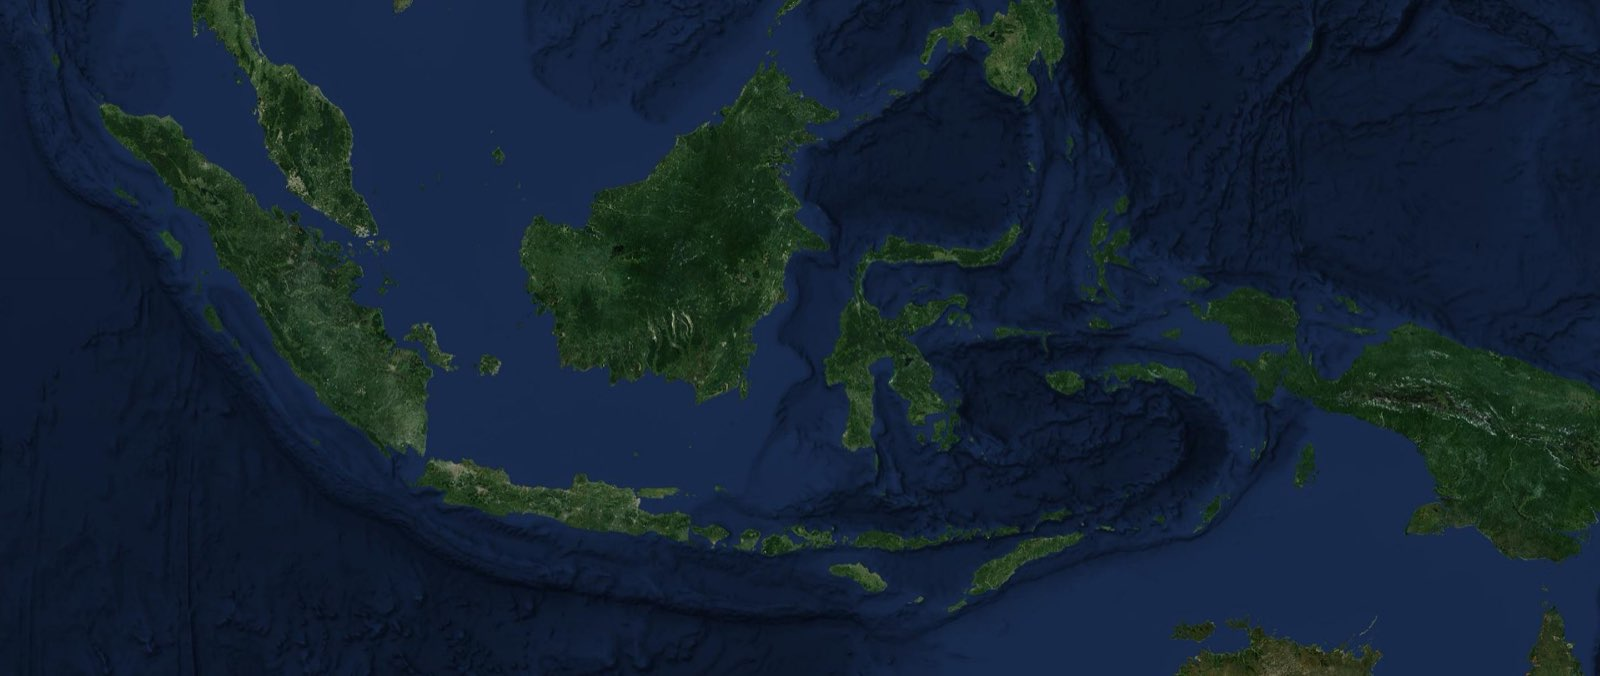
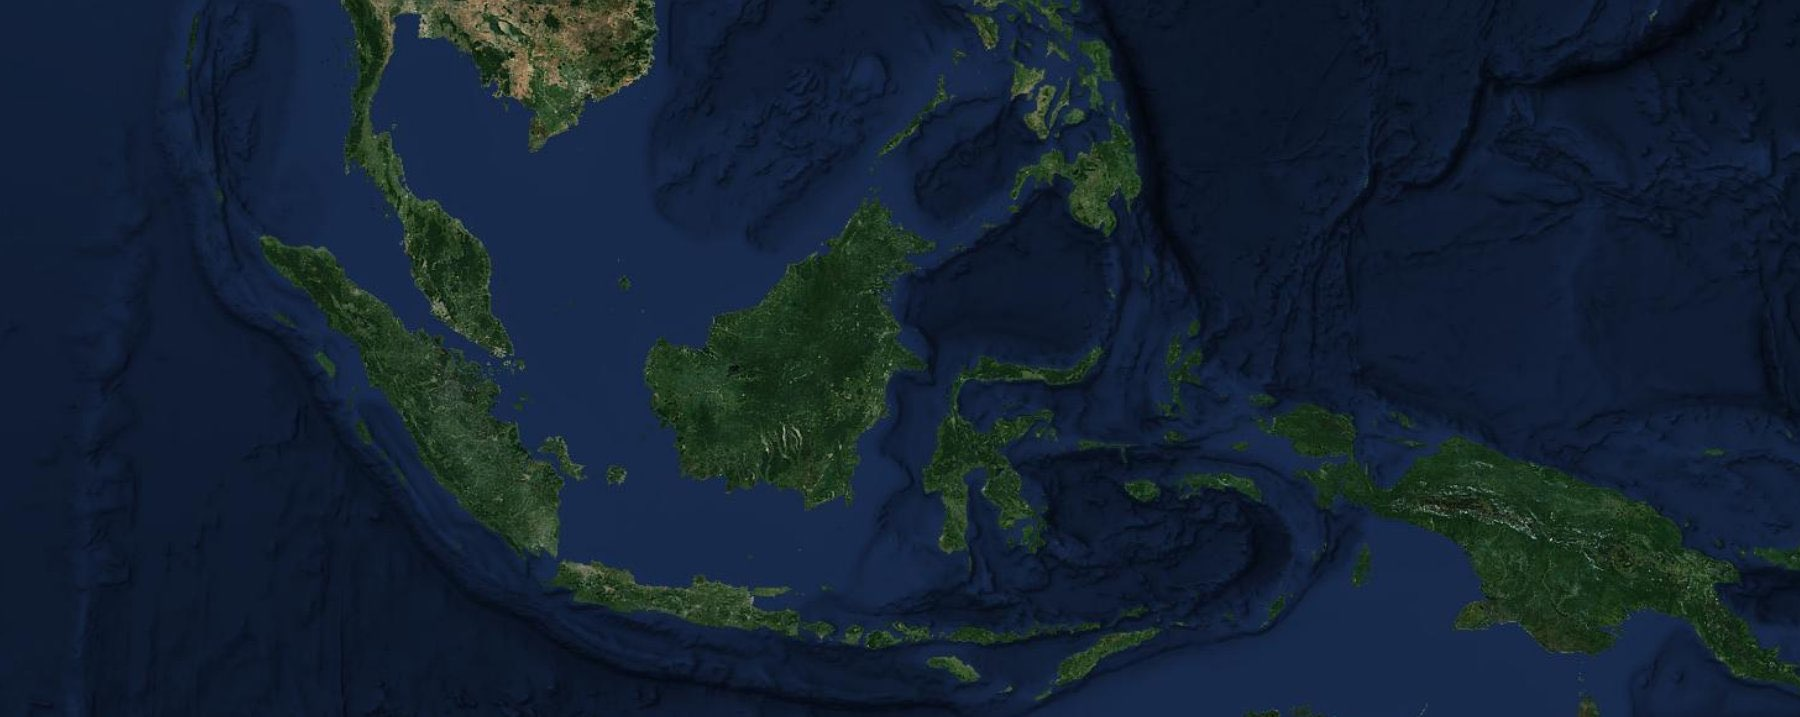
fix(sekitarmu): citra Indonesia diperluas, arsiran ditipiskan, tombol babak muat di HP
- Citra Indonesia 86–150° BT, 11,5° LS–14° LU; tepi dipudarkan lebih lebar
  supaya menyatu dengan laut dan Australia tidak ikut tampil
- Arsiran gambut, isian Kalbar, dan peredup citra ditipiskan
- Atribusi ringkas di ponsel
- Penanda babak di ponsel dipersempit (w-10) agar tombol Babak berikutnya
  tidak terpotong; berlaku juga untuk Modul Hutan Rawa

diff --git a/components/modul/sekitarmu/SekitarmuMap.tsx b/components/modul/sekitarmu/SekitarmuMap.tsx
@@ -46,7 +46,7 @@ function imageBox(west: number, south: number, east: number, north: number): Box
   return [west * KX, -north * KY, (east - west) * KX, (north - south) * KY];
 }
 const IMAGERY = {
-  indonesia: { href: "/images/sekitarmu/indonesia.jpg", box: imageBox(92, -13, 144, 9) },
+  indonesia: { href: "/images/sekitarmu/indonesia.jpg", box: imageBox(86, -11.5, 150, 14) },
   kalbar: { href: "/images/sekitarmu/kalbar.jpg", box: imageBox(107.5, -3.5, 115, 2.6) },
   pontianak: { href: "/images/sekitarmu/pontianak.jpg", box: imageBox(109.22, -0.13, 109.44, 0.07) },
 };
@@ -194,14 +194,14 @@ export default function SekitarmuMap({
               terlihat sebagai garis lurus saat tampilan lebih lebar dari citra. */}
           <linearGradient id="sekitarmu-fade-x">
             <stop offset="0" stopColor="#fff" stopOpacity="0" />
-            <stop offset="0.05" stopColor="#fff" />
-            <stop offset="0.95" stopColor="#fff" />
+            <stop offset="0.08" stopColor="#fff" />
+            <stop offset="0.92" stopColor="#fff" />
             <stop offset="1" stopColor="#fff" stopOpacity="0" />
           </linearGradient>
           <linearGradient id="sekitarmu-fade-y" x2="0" y2="1">
             <stop offset="0" stopColor="#fff" stopOpacity="0" />
-            <stop offset="0.05" stopColor="#fff" />
-            <stop offset="0.95" stopColor="#fff" />
+            <stop offset="0.14" stopColor="#fff" />
+            <stop offset="0.86" stopColor="#fff" />
             <stop offset="1" stopColor="#fff" stopOpacity="0" />
           </linearGradient>
           <mask id="sekitarmu-feather-x" maskContentUnits="objectBoundingBox">
@@ -214,8 +214,8 @@ export default function SekitarmuMap({
             <path d={idn.d} />
           </clipPath>
           <pattern id="sekitarmu-hatch" patternUnits="userSpaceOnUse" width={px * 7} height={px * 7} patternTransform="rotate(45)">
-            <rect width={px * 7} height={px * 7} fill="#e8823a" fillOpacity="0.28" />
-            <rect width={px * 2.6} height={px * 7} fill="#f0a35e" fillOpacity="0.85" />
+            <rect width={px * 7} height={px * 7} fill="#e8823a" fillOpacity="0.16" />
+            <rect width={px * 2} height={px * 7} fill="#f0a35e" fillOpacity="0.7" />
           </pattern>
           {/* Arsiran lembut untuk babak 03–04: gambutnya sudah diketahui, dan
               yang dibaca sekarang titik-titik di atasnya. */}
@@ -264,7 +264,7 @@ export default function SekitarmuMap({
           width={box[2] * 9}
           height={box[3] * 9}
           fill="#050a08"
-          fillOpacity={0.3}
+          fillOpacity={0.2}
           pointerEvents="none"
         />
 
@@ -290,7 +290,7 @@ export default function SekitarmuMap({
             d={mapData.kalbar}
             clipPath="url(#sekitarmu-land)"
             fill="#c9773a"
-            fillOpacity={(act === 0 ? 0.22 : 0.08) * (1 - cityMix)}
+            fillOpacity={(act === 0 ? 0.14 : 0.06) * (1 - cityMix)}
             stroke="#f0a35e"
             strokeOpacity={0.85 * (1 - cityMix)}
             strokeWidth={1.4}
@@ -443,7 +443,10 @@ export default function SekitarmuMap({
           );
         })}
 
-      <p className="pointer-events-none absolute right-0 top-0 max-w-full text-right text-[9px] leading-tight text-white/45 [text-shadow:0_1px_2px_rgba(0,0,0,0.8)]">{SEKITARMU_TEXT.attribution}</p>
+      <p className="pointer-events-none absolute right-0 top-0 max-w-full rounded-sm bg-black/45 px-1.5 py-0.5 text-right text-[9px] leading-tight text-white/60">
+        <span className="hidden sm:inline">{SEKITARMU_TEXT.attribution}</span>
+        <span className="sm:hidden">{SEKITARMU_TEXT.attributionShort}</span>
+      </p>
     </div>
   );
 }

diff --git a/components/modul/shared/ActModuleShell.tsx b/components/modul/shared/ActModuleShell.tsx
@@ -201,7 +201,7 @@ export default function ActModuleShell({
                 className={`group flex flex-col items-start gap-2 text-left ${locked ? "cursor-not-allowed" : "cursor-pointer"}`}
               >
                 <span
-                  className={`h-0.5 w-14 rounded-full transition-colors duration-500 ${
+                  className={`h-0.5 w-10 rounded-full transition-colors sm:w-14 duration-500 ${
                     i === act ? "bg-white" : i < act ? "bg-[#e8702a]" : locked ? "bg-white/12" : "bg-white/20 group-hover:bg-white/50"
                   }`}
                 />

diff --git a/config/modul/sekitarmu.ts b/config/modul/sekitarmu.ts
@@ -208,5 +208,7 @@ export const SEKITARMU_TEXT = {
   guessWrong: "tebakanmu meleset",
   firePeat: (depth: string) => `Di bawah api ini: gambut ${depth}.`,
   attribution: "Citra Sentinel-2 cloudless 2024 © EOX (CC BY-NC-SA 4.0, data Copernicus) · Peta © kontributor OpenStreetMap (ODbL) · Natural Earth",
+  /** Atribusi ringkas untuk layar ponsel; lisensi lengkap ada di data/SUMBER.md. */
+  attributionShort: "Citra © EOX, Copernicus · Peta © OpenStreetMap",
   reset: "Mulai dari awal",
 };

diff --git a/data/SUMBER.md b/data/SUMBER.md
@@ -41,7 +41,7 @@ non-komersial; turunan citra ini tunduk pada lisensi yang sama. Diunduh
 
 | Berkas | Kotak (barat, selatan, timur, utara) | Piksel |
 |---|---|---|
-| indonesia.jpg | 92, −13, 144, 9 | 1600 × 676 |
+| indonesia.jpg | 86, −11,5, 150, 14 | 1800 × 717 |
 | kalbar.jpg | 107,5, −3,5, 115, 2,6 | 1200 × 976 |
 | pontianak.jpg | 109,22, −0,13, 109,44, 0,07 | 1700 × 1545 |
 
